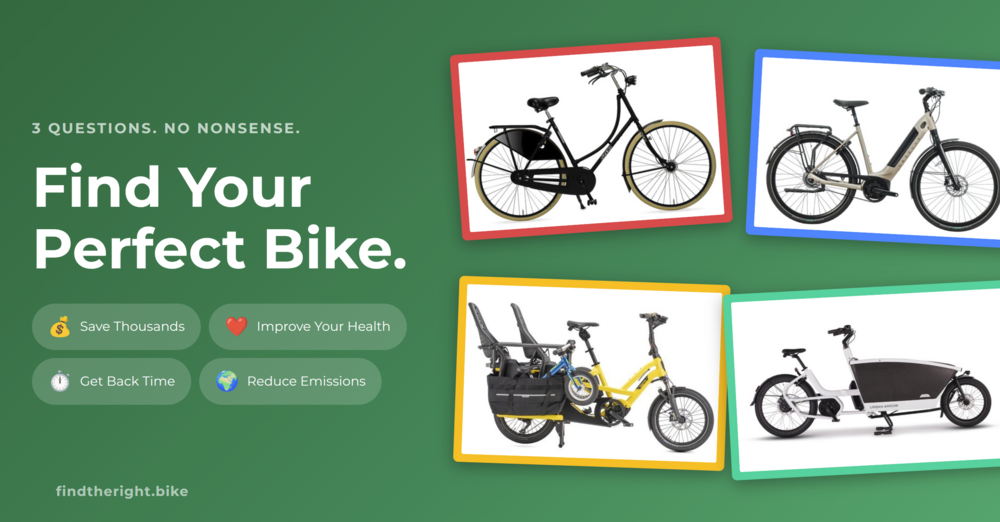
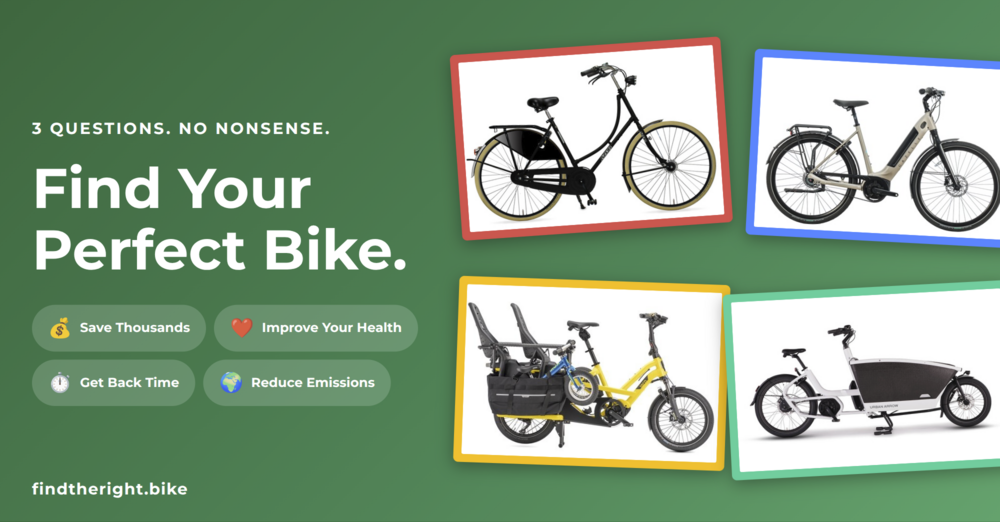
More social image udpates and try adding automation (not quite working)

diff --git a/src/components/SocialImage.vue b/src/components/SocialImage.vue
@@ -40,6 +40,19 @@
   </div>
 </template>
 
+<style>
+/* Non-scoped: override global body/wrapper styles for screenshot environment */
+body {
+  overflow: hidden;
+}
+
+.app-wrapper {
+  min-height: unset !important;
+  height: 100vh;
+  overflow: hidden;
+}
+</style>
+
 <style lang="scss" scoped>
 @use '../assets/scss/variables' as vars;
 
@@ -65,25 +78,26 @@ $bg-mid: #2c8a57;
 }
 
 .eyebrow {
-  font-size: 0.9rem;
+  font-size: 1rem;
   font-weight: 700;
   letter-spacing: 0.12em;
   text-transform: uppercase;
-  color: rgba(255, 255, 255, 0.7);
+  color: vars.$white;
   margin-bottom: 1rem;
 }
 
 h1 {
   font-size: 3.5rem;
   font-weight: 700;
-  color: #fff;
+  color: vars.$white;
   line-height: 1.1;
   margin: 0 0 1.5rem;
 }
 
 .benefit-item {
   background-color: rgba(255, 255, 255, 0.18);
-  color: #fff;
+  color: vars.$white;
+  font-weight: 700;
   box-shadow: none;
 }
 
@@ -136,10 +150,10 @@ h1 {
 .url {
   position: absolute;
   bottom: 1.25rem;
-  left: 3.5rem;
-  font-size: 0.85rem;
+  left: 2rem;
+  font-size: 1rem;
   font-weight: 700;
-  color: rgba(255, 255, 255, 0.6);
+  color: vars.$white;
   letter-spacing: 0.05em;
   z-index: 2;
 }
